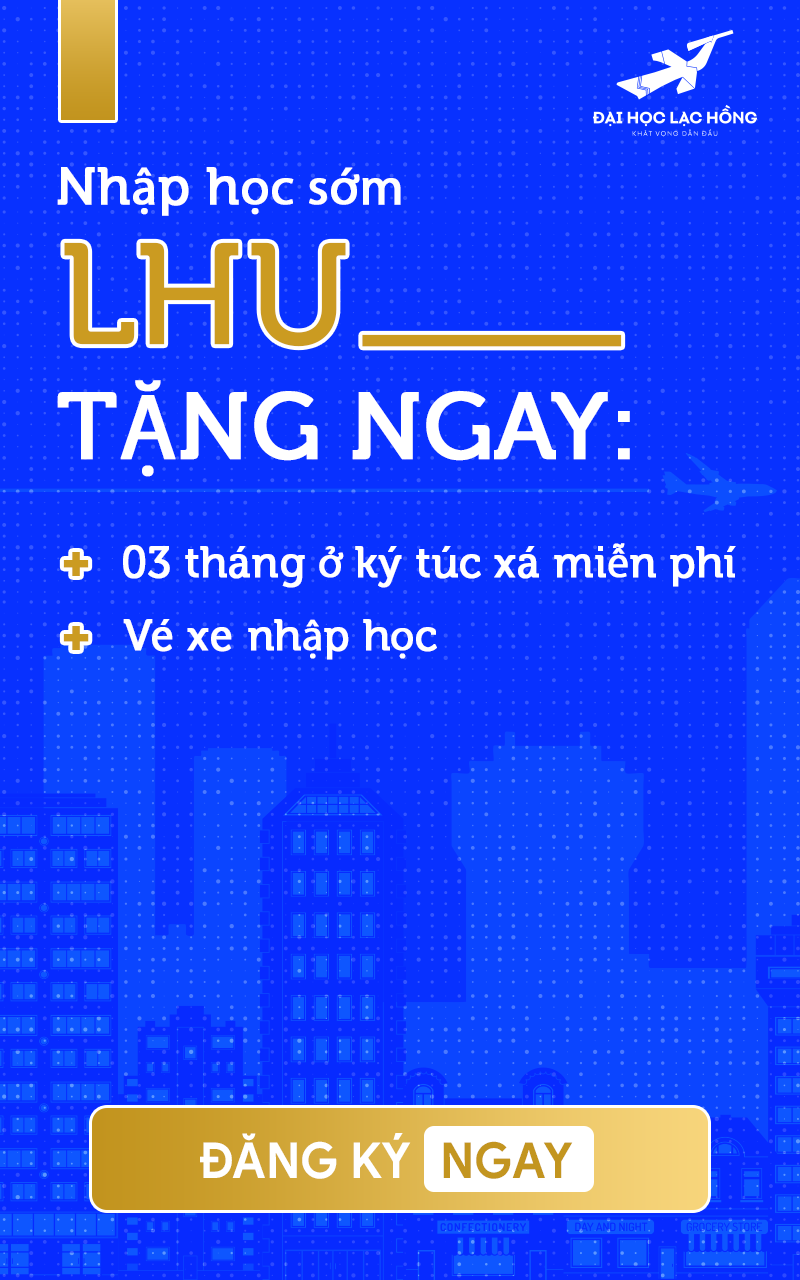
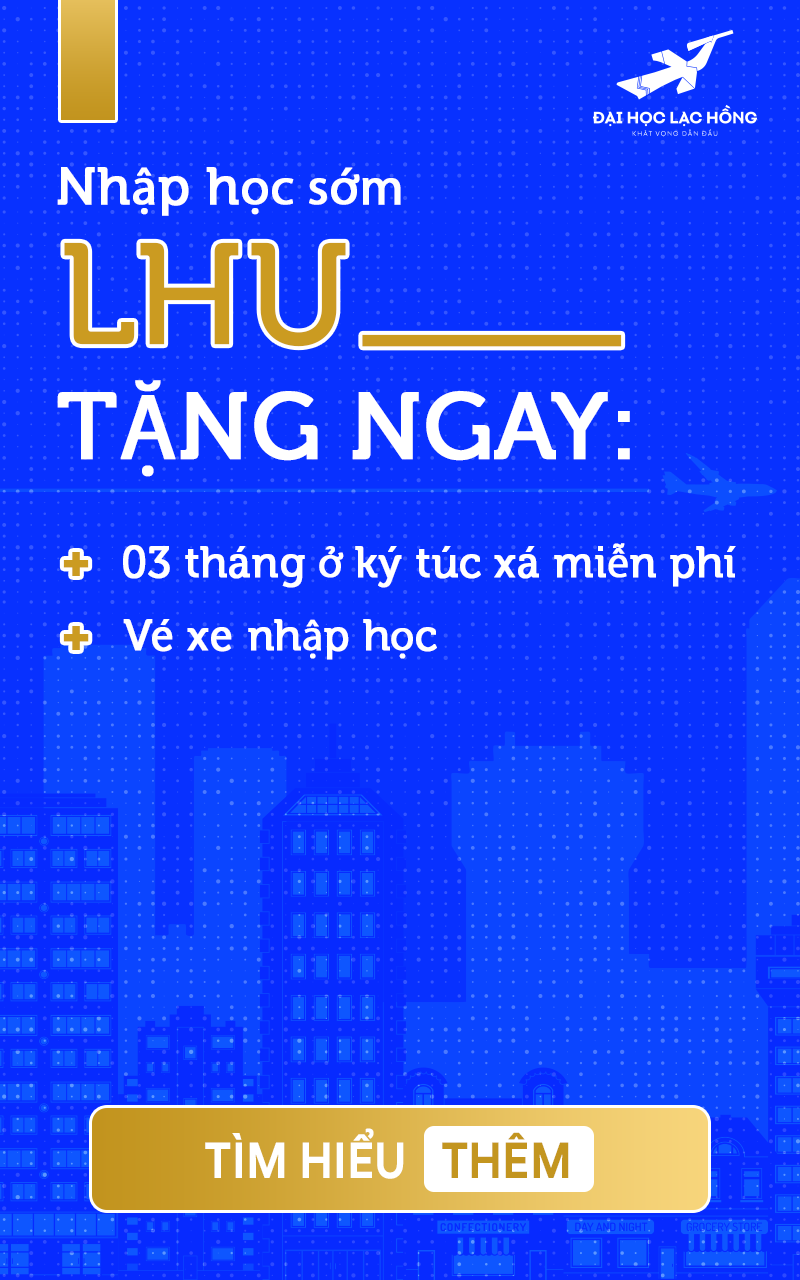
ok

Changed region(s): [[0.25, 0.875, 0.5, 0.9375], [0.5312, 0.875, 0.7188, 0.9375]]

diff --git a/index.html b/index.html
@@ -180,15 +180,19 @@
                       </button>
                     </div>
                     <div class="modal-body">
-                      <img
-                        class="mx-auto w-100 d-md-block d-none"
-                        src="assets/img/body/1-uudai/modal1/desk.png"
-                      />
+                      <a
+                        href="https://ts.lhu.edu.vn/640/37088/Dai-hoc-Lac-Hong-tang-2000-suat-luyen-noi-Tieng-Anh-chat-luong-cao-tri-gia-5-ty-dong-cho-Tan-sinh-vien-nam-hoc-20212022.html"
+                        target="_blank"
+                        ><img
+                          class="mx-auto w-100 d-md-block d-none"
+                          src="assets/img/body/1-uudai/modal1/desk.png"
+                        />
 
-                      <img
-                        class="mx-auto w-100 d-md-none d-block"
-                        src="assets/img/body/1-uudai/modal1/mobile.png"
-                      />
+                        <img
+                          class="mx-auto w-100 d-md-none d-block"
+                          src="assets/img/body/1-uudai/modal1/mobile.png"
+                        />
+                      </a>
                     </div>
                     <!-- <div class="modal-footer"></div> -->
                   </div>
@@ -302,15 +306,20 @@
                       </button>
                     </div>
                     <div class="modal-body">
-                      <img
-                        class="mx-auto w-100 d-md-block d-none"
-                        src="assets/img/body/1-uudai/modal3/desk.png"
-                      />
+                      <a
+                        href="https://ts.lhu.edu.vn/640/37090/Nam-hoc-20212022-Dai-hoc-Lac-Hong-tang-tien-mua-ve-xeve-may-bay-va-mien-phi-3-thang-ky-tuc-xa.html"
+                        target="_blank"
+                      >
+                        <img
+                          class="mx-auto w-100 d-md-block d-none"
+                          src="assets/img/body/1-uudai/modal3/desk.png"
+                        />
 
-                      <img
-                        class="mx-auto w-100 d-md-none d-block"
-                        src="assets/img/body/1-uudai/modal3/mobile.png"
-                      />
+                        <img
+                          class="mx-auto w-100 d-md-none d-block"
+                          src="assets/img/body/1-uudai/modal3/mobile.png"
+                        />
+                      </a>
                     </div>
                   </div>
                 </div>
